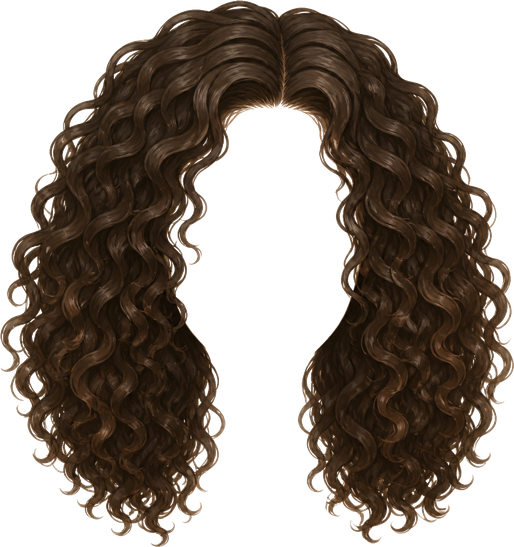
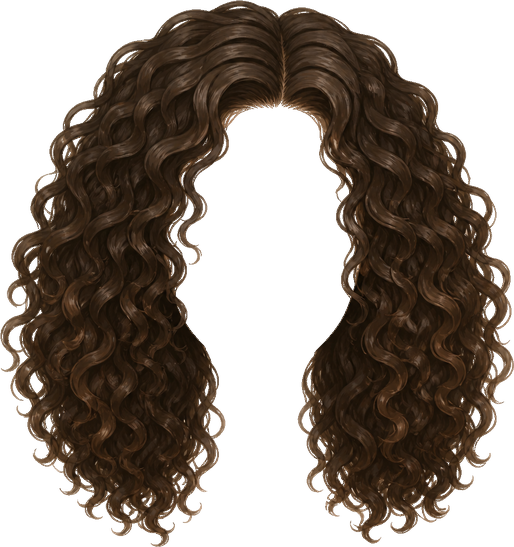
Starter closet: fix the Cloudflare request; better hair and top fit (#20)
* Starter closet: find the Cloudflare account ID in a pasted dashboard address; clear message when it isn't one; error text wraps in the review grid

Claude-Session: https://claude.ai/code/session_01EhMbmzT8P6M24BQw5kWDun

* Starter closet: send Cloudflare only a prompt and steps (its FLUX.1 schnell refuses a seed)

Claude-Session: https://claude.ai/code/session_01EhMbmzT8P6M24BQw5kWDun

* Fit: hair filled in behind the face (no background between face and hair), clean hair edges; sleeveless tops sized by their armpits; tops cover the body down to the hem without flaring; stricter dress-form neck check

Claude-Session: https://claude.ai/code/session_01EhMbmzT8P6M24BQw5kWDun

---------

diff --git a/public/js/garment.js b/public/js/garment.js
@@ -25,7 +25,7 @@ const spanAt = (body, y) => { const o = body.outlineAt(Math.round(y)); return o 
 /** A strapless piece (corset, tube top, bustier): sits on the bust and waist, not on the shoulders. */
 export const isStrapless = (name = '') => /corset|tube|bustier|strapless|bandeau/i.test(name);
 
-export function plan(type, marks, cut, pack, body, { strapless = false } = {}) {
+export function plan(type, marks, cut, pack, body, { strapless = false, sleeveless = false } = {}) {
   const g = groupOf(type); if (!g) return null;
   const P = pack.points, arms = pack.arms, cx = body.cx, ease = easeOf(type);
   const pt = (n) => (marks[n] ? [marks[n][0] * cut.width, marks[n][1] * cut.height] : null);
@@ -94,9 +94,14 @@ export function plan(type, marks, cut, pack, body, { strapless = false } = {}) {
 
   // tops, outerwear and dresses
   const shL = pt('shoulderL'), shR = pt('shoulderR'); if (!shL || !shR) return null;
-  const bodySh = P.shoulderR[0] - P.shoulderL[0], k = type === 'outerwear' ? 1.08 : 1.02, s = bodySh / Math.max(8, dist(shL, shR)), gShY = (shL[1] + shR[1]) / 2;
+  const apL0 = pt('armpitL'), apR0 = pt('armpitR'), gcx0 = (shL[0] + shR[0]) / 2;
+  const bodySh = P.shoulderR[0] - P.shoulderL[0], k = type === 'outerwear' ? 1.08 : 1.02, gShY = (shL[1] + shR[1]) / 2;
+  // a sleeveless top's "shoulders" are its straps: it's sized by its armpits and keeps its own strap spacing (not stretched to her shoulder tips)
+  const strap = sleeveless && g === 'top' && apL0 && apR0;
+  const s = strap ? ((P.armpitR[0] - P.armpitL[0]) * 1.04) / Math.max(8, dist(apL0, apR0)) : bodySh / Math.max(8, dist(shL, shR));
   const SHY = (P.shoulderL[1] + P.shoulderR[1]) / 2 - 14, halfSh = bodySh / 2 * k;
-  add('shoulderL', shL, [cx - halfSh, SHY]); add('shoulderR', shR, [cx + halfSh, SHY]);
+  if (strap) { add('shoulderL', shL, [cx - Math.min(halfSh, (gcx0 - shL[0]) * s), SHY + 4]); add('shoulderR', shR, [cx + Math.min(halfSh, (shR[0] - gcx0) * s), SHY + 4]); }
+  else { add('shoulderL', shL, [cx - halfSh, SHY]); add('shoulderR', shR, [cx + halfSh, SHY]); }
   const nk = pt('neck'); if (nk) add('neck', nk, [cx, Math.max(SHY - 8, SHY + (nk[1] - gShY) * s)]);
   const apL = pt('armpitL'), apR = pt('armpitR'), ak = type === 'outerwear' ? 1.12 : 1.04;
   // a loose piece keeps its own width (scaled); a fitted one sits on the body with a little ease
@@ -117,7 +122,7 @@ export function plan(type, marks, cut, pack, body, { strapless = false } = {}) {
     const wl = pt('waistL'), wr = pt('waistR');
     if (wl && wr) { const e = spanAt(body, waistY), c = 1 + ease * 0.6; add('waistL', wl, [cx - (cx - e.l) * c, waistY]); add('waistR', wr, [cx + (e.r - cx) * c, waistY]); }
     widen = { y0: Math.round(waistY), y1: Math.round(hemY) + 4, hang: { y: hipY, y1: hemY + 4 } };
-  } else widen = { y0: Math.round((P.bustL[1] + P.bustR[1]) / 2 - 40), y1: Math.round(waistY), top: true }; // a top hugs the body down to the waist; below it, it keeps its own width
+  } else widen = { y0: Math.round((P.armpitL[1] + P.armpitR[1]) / 2 - 40), y1: Math.round(hemY) + 40, top: true }; // a top is made at least as wide as her (no skin at its sides), with only a little ease: it never flares like a skirt
   return { ctl, widen, s };
 }
 
@@ -156,8 +161,8 @@ function sleeveControls(q, pl, pack, body, cut) {
  * The garment cutout fitted to the body: a canvas the size of the base picture, ready to be drawn at 0,0.
  * `marks` may be null (then they are suggested). Resolves to { canvas, ctl } or null when the piece has no landmarks to warp.
  */
-export function fitGarment(cut, type, marks, pack, body, { ease = easeOf(type), rows = true, debug = null, strapless = false } = {}) {
-  const pl = plan(type, marks, cut, pack, body, { strapless }); if (!pl || pl.ctl.length < 3) return null;
+export function fitGarment(cut, type, marks, pack, body, { ease = easeOf(type), rows = true, debug = null, strapless = false, sleeveless = false } = {}) {
+  const pl = plan(type, marks, cut, pack, body, { strapless, sleeveless }); if (!pl || pl.ctl.length < 3) return null;
   const [W, H] = pack.size;
   /** Thin-plate-spline warp of `img` through the given controls; a global affine fit pins the far corners so the margins stay sane. */
   const warpWith = (img, ctl) => {
@@ -197,8 +202,16 @@ export function fitGarment(cut, type, marks, pack, body, { ease = easeOf(type), 
     if (pl.seam) { out = widenRows(out, outline, { y0: w.y0, y1: Math.floor(body.crotchY) - 1, ease, debug }); out = widenRows(out, (y) => body.runs(y), { y0: Math.ceil(body.crotchY), y1, ease, debug }); }
     else if (w.top) { // above the armpits base.png's outline includes the arms, so the bust points give the width there
       const P = pack.points, apY = (P.armpitL[1] + P.armpitR[1]) / 2;
-      const torso = (y) => (y < apY + 12 ? [[P.bustL[0], P.bustR[0]]] : outline(y));
-      out = widenRows(out, torso, { y0: w.y0, y1: w.y1, ease: 0.04, debug });
+      // her width on a row, from the bust, waist and hip points (base.png's own outline still includes the arms down to the waist), never wider
+      // than the outline itself; one span across both legs below the crotch (a top covers them as one piece)
+      const lerpW = (y, a, b) => { const t = Math.max(0, Math.min(1, (y - a[0]) / (b[0] - a[0]))); return a[1] + (b[1] - a[1]) * t; };
+      const stops = [[(P.bustL[1] + P.bustR[1]) / 2, (P.bustR[0] - P.bustL[0]) / 2], [(P.waistL[1] + P.waistR[1]) / 2, (P.waistR[0] - P.waistL[0]) / 2], [(P.hipL[1] + P.hipR[1]) / 2, (P.hipR[0] - P.hipL[0]) / 2]];
+      const torso = (y) => {
+        const half = y <= stops[0][0] ? stops[0][1] : y <= stops[1][0] ? lerpW(y, stops[0], stops[1]) : lerpW(y, stops[1], stops[2]);
+        const o = body.outlineAt(Math.round(y)), l = o && y >= apY + 12 ? Math.max(o.l, body.cx - half) : body.cx - half, r = o && y >= apY + 12 ? Math.min(o.r, body.cx + half) : body.cx + half;
+        return [[l, r]];
+      };
+      out = widenRows(out, torso, { y0: w.y0, y1: w.y1, ease: 0.03, maxStretch: 1.8, debug }); // (a knit top stretches over the hips)
     } else out = widenRows(out, outline, { y0: w.y0, y1, ease, hang: w.hang, debug });
   }
   if (sleeves.length) { // each sleeve along its arm: shoulder -> elbow -> wrist, at least as wide as the arm so no skin shows past a long sleeve

diff --git a/public/js/doll.js b/public/js/doll.js
@@ -28,7 +28,7 @@ export function hairOf(pack, style, color, overrides = {}) {
   const h = pack?.hair, st = h?.styles.find((s) => s.id === style);
   if (!st || st.id === 'none' || !st.size) return null;
   const v = pack.version ? `?v=${pack.version}` : '';
-  return { id: st.id, href: `${pack.base}hair/${st.id}.png${v}`, size: st.size, marks: { ...st.marks, ...(overrides[st.id] || {}) }, m: h.colors.find((c) => c.id === color)?.m || null, tone: st.tone || '#2a1c12' };
+  return { id: st.id, href: `${pack.base}hair/${st.id}.png${v}`, fill: st.fill ? `${pack.base}hair/${st.id}-fill.png${v}` : '', size: st.size, marks: { ...st.marks, ...(overrides[st.id] || {}) }, m: h.colors.find((c) => c.id === color)?.m || null, tone: st.tone || '#2a1c12' };
 }
 /** Where a hairstyle goes: scaled so its temples span her temples, placed so its hairline sits on hers, and stretched up or down (a little)
  *  so its crown sits on her crown. Returns [sx, sy, tx, ty] for matrix(sx 0 0 sy tx ty). */
@@ -149,11 +149,10 @@ export function dollSVG({ pack, items, urls, hair = null, meta = null, fits = nu
       <filter id="hairfx-${n}" x="-10%" y="-10%" width="120%" height="125%" color-interpolation-filters="sRGB">${hair.m ? `<feColorMatrix type="matrix" values="${hair.m.join(' ')} 0 0 0 1 0" result="c"/>` : '<feOffset dx="0" dy="0" result="c"/>'}
         <feGaussianBlur in="SourceAlpha" stdDeviation="3"/><feOffset dy="3" result="b"/><feFlood flood-color="#1a0d06" flood-opacity=".35"/><feComposite in2="b" operator="in" result="sh"/>
         <feMerge><feMergeNode in="sh"/><feMergeNode in="c"/></feMerge></filter>
-      <filter id="hairgap-${n}" x="-30%" y="-30%" width="160%" height="160%" color-interpolation-filters="sRGB"><feGaussianBlur stdDeviation="7"/>${hair.m ? `<feColorMatrix type="matrix" values="${hair.m.join(' ')} 0 0 0 1 0"/>` : ''}</filter>`;
-    const st = pack.hair.styles.find((s) => s.id === hair.id), full = st?.backfill !== 'top';
-    // the back of her head, in the hair's colour: fills any gap between the skull and the hair's crown, and (for hair worn down) what shows beside the face
-    const fill = full ? { cy: (P.crown[1] + ny + 60) / 2 + 10, rx: tw * 1.22, ry: (ny + 60 - P.crown[1]) / 2 - 6 } : { cy: P.crown[1] + (P.hairline[1] - P.crown[1]) * 0.75, rx: tw * 0.95, ry: (P.hairline[1] - P.crown[1]) * 0.7 };
-    hairBack = `<g class="hairback"><ellipse cx="${P.crown[0]}" cy="${num(fill.cy)}" rx="${num(fill.rx)}" ry="${num(fill.ry)}" fill="${hair.tone}" opacity=".92" filter="url(#hairgap-${n})"/>
+ <filter id="hairgap-${n}" x="-10%" y="-10%" width="120%" height="120%" color-interpolation-filters="sRGB"><feGaussianBlur in="SourceAlpha" stdDeviation="3" result="b"/><feFlood flood-color="${hair.tone}"/><feComposite in2="b" operator="in"/>${hair.m ? `<feColorMatrix type="matrix" values="${hair.m.join(' ')} 0 0 0 1 0"/>` : ''}</filter>`;
+    // the back of her head, in the hair's colour: the style with its face opening filled in down to her jaw, so nothing shows between face and hair
+    const fillPic = hair.fill ? `<image href="${hair.fill}" width="${hair.size[0]}" height="${hair.size[1]}" transform="matrix(${num(sx)} 0 0 ${num(sy)} ${num(tx)} ${num(ty)})" filter="url(#hairgap-${n})"/>` : '';
+    hairBack = `<g class="hairback">${fillPic}
       <g mask="url(#hairback-${n})"><g filter="url(#hairfx-${n})">${img}</g></g></g>`;
     hairFront = `<g class="hairfront" mask="url(#hairfront-${n})"><g filter="url(#hairfx-${n})">${img}</g></g>`;
   }

diff --git a/lib/ai.js b/lib/ai.js
@@ -220,11 +220,14 @@ export const nextResetUTC = (now = Date.now()) => { const d = new Date(now); ret
 /** True when a Cloudflare error means the daily free neurons are used up (as opposed to a real failure). */
 export const isDailyLimit = (status, text) => status === 429 || /neuron|daily free allocation|4006/i.test(text || '');
 
+/** The Cloudflare account ID: the 32-character hex ID, also when a dashboard address (dash.cloudflare.com/<id>/...) or stray spaces were pasted. */
+export const cfAccount = (v) => String(v || '').match(/\b[0-9a-f]{32}\b/i)?.[0] || '';
+
 async function cfImage(env, it, seed) {
   const base = (env.CF_API_BASE || 'https://api.cloudflare.com').replace(/\/$/, '');
-  const r = await fetch(`${base}/client/v4/accounts/${encodeURIComponent(env.CF_ACCOUNT_ID)}/ai/run/${CF_MODEL}`, {
-    method: 'POST', headers: { authorization: `Bearer ${env.CF_API_TOKEN}`, 'content-type': 'application/json' },
-    body: JSON.stringify({ prompt: promptFor(it), steps: CF_STEPS, ...(Number.isInteger(seed) && { seed }) }),
+  const r = await fetch(`${base}/client/v4/accounts/${cfAccount(env.CF_ACCOUNT_ID)}/ai/run/${CF_MODEL}`, {
+    method: 'POST', headers: { authorization: `Bearer ${String(env.CF_API_TOKEN).trim()}`, 'content-type': 'application/json' },
+    body: JSON.stringify({ prompt: promptFor(it), steps: CF_STEPS }), // (FLUX.1 schnell on Cloudflare takes only a prompt and steps: no seed, so every call is a fresh picture)
   });
   const t = await r.text(); let j = null; try { j = JSON.parse(t); } catch { /* not JSON */ }
   if (!r.ok || !j?.success) {
@@ -251,6 +254,7 @@ export const handleStarter = wrap(async (request, env) => {
   if (!it) return json({ error: 'Not a starter piece.' }, 400);
   const cf = !!(env.CF_ACCOUNT_ID && env.CF_API_TOKEN), useFal = engine === 'fal'; // fal (paid) only when asked for by name, never as a silent fallback
   if (!useFal && !cf) return json({ error: 'The starter closet needs CF_ACCOUNT_ID and CF_API_TOKEN (Cloudflare Workers AI) set in Vercel, then a redeploy.' }, 503);
+  if (!useFal && !cfAccount(env.CF_ACCOUNT_ID)) return json({ error: 'CF_ACCOUNT_ID in Vercel isn’t a Cloudflare account ID: it should be the 32 letters and numbers shown as “Account ID” on the Cloudflare dashboard.' }, 503);
   if (useFal && !env.FAL_KEY) return json({ error: 'fal needs FAL_KEY set on the server.' }, 503);
   if (!useFal) { const used = await usedToday(env); if (used !== null && used + NEURONS_EACH > BUDGET) return json({ error: 'Today’s free Cloudflare allowance is used up.', limit: true, used, resetAt: nextResetUTC() }, 429); }
   try {

diff --git a/public/js/starter.js b/public/js/starter.js
@@ -151,7 +151,7 @@ export function checkPicture(img, it) {
     const bw = x1 - x0 + 1, cx = (x0 + x1) / 2, thin = (yy, f) => { const r = runs(fg, w, yy); return r.length === 1 && r[0][1] - r[0][0] + 1 < bw * f && Math.abs((r[0][0] + r[0][1]) / 2 - cx) < bw * 0.1; };
     const band = (a, b, f) => { let t = 0, all = 0; for (let yy = a; yy <= b; yy++) { all++; if (thin(yy, f)) t++; } return all && t / all > 0.7; };
     const bh = y1 - y0 + 1;
-    if (band(y0, y0 + Math.round(bh * 0.07), 0.15)) reasons.push('a neck stand above the item (a dress form?)');
+    if (!/halter|turtleneck|one-shoulder/i.test(`${it.name} ${it.detail}`) && band(y0, y0 + Math.round(bh * 0.07), 0.25)) reasons.push('a neck stand above the item (a dress form?)'); // (a halter's neck strap or a turtleneck's collar is the piece itself)
     // a stand's pole is very thin; a bodysuit's crotch, a skirt's hem or a dress's slit are not
     if (band(y1 - Math.round(bh * 0.1), y1, 0.06) && it.type !== 'bodysuits') reasons.push('a pole under the item (a dress form stand?)');
   }
@@ -217,7 +217,7 @@ async function finish(cut, check) {
 export const sleevesOf = (it) => (/sleeveless|strapless|tube|cami|tank|halter|corset|vest|one-shoulder|thin straps/i.test(`${it.name} ${it.detail}`) ? false
   : /sleeve|sweater|turtleneck|button-down|blouse|tee|t-shirt|cardigan|blazer|coat|jacket|duster|puffer|shirt/i.test(`${it.name} ${it.detail}`) ? true : undefined);
 /** Starter pieces checked by an older version are checked again (the check keeps getting stricter). */
-export const CHECK_VERSION = 3;
+export const CHECK_VERSION = 4;
 export const toItem = (it, done, original) => ({
   checkVersion: CHECK_VERSION, ...(sleevesOf(it) !== undefined && ['tops', 'tanks', 'bodysuits', 'outerwear', 'dresses'].includes(it.type) && { sleeves: sleevesOf(it) }),
   id: uid(), starterId: it.id, source: 'starter', ready: !!done.ready, review: done.ready ? undefined : done.why, ...(it.acc && { acc: it.acc }), name: it.name, type: it.type, occasions: [...it.occasions], season: it.season, brand: '',

diff --git a/public/js/warp.js b/public/js/warp.js
@@ -96,7 +96,7 @@ const dilate = (a, k) => a.map((_, i) => { let m = null; for (let j = Math.max(0
  * y >= hang.y the garment never gets narrower than the widest point above it, so a skirt falls straight down from the hip instead of following the legs.
  *   body: (y) => [[x0, x1], ...] body runs for that row.  Returns a new canvas.
  */
-export function widenRows(src, body, { y0, y1, ease = 0.05, hang = null, debug = null } = {}) {
+export function widenRows(src, body, { y0, y1, ease = 0.05, hang = null, debug = null, maxStretch = 1.45 } = {}) {
   const w = src.width, h = src.height, data = src.getContext('2d', { willReadFrequently: true }).getImageData(0, 0, w, h).data;
   const out = document.createElement('canvas'); out.width = w; out.height = h;
   const g = out.getContext('2d'); g.drawImage(src, 0, 0);
@@ -135,7 +135,7 @@ export function widenRows(src, body, { y0, y1, ease = 0.05, hang = null, debug =
     }
     // the garment's own edges are ragged, so the stretch is smoothed over rows: scale about the run's centre, plus a shift
     const wid = col.map((c) => (c ? c.g[1] - c.g[0] : 0)), med = (i) => { const a = []; for (let j = Math.max(0, i - 14); j < i; j++) if (wid[j]) a.push(wid[j]); a.sort((p, q) => p - q); return a.length ? a[a.length >> 1] : 0; };
-    const ok = col.map((c, i) => (c && tr[i] - tl[i] <= 1.45 * (c.g[1] - c.g[0]) && wid[i] >= 0.8 * (med(i) || wid[i]) ? 1 : 0));
+    const ok = col.map((c, i) => (c && tr[i] - tl[i] <= maxStretch * (c.g[1] - c.g[0]) && wid[i] >= 0.8 * (med(i) || wid[i]) ? 1 : 0));
     const ratio = boxBlur(col.map((c, i) => (ok[i] ? (tr[i] - tl[i]) / (c.g[1] - c.g[0]) : null)), R);
     const shift = boxBlur(col.map((c, i) => (ok[i] ? (tl[i] + tr[i]) / 2 - (c.g[0] + c.g[1]) / 2 : null)), R);
     const capL = boxBlur(dilate(col.map((c, i) => (c ? Math.max(0, c.g[0] - tl[i]) : null)), R), R), capR = boxBlur(dilate(col.map((c, i) => (c ? Math.max(0, tr[i] - c.g[1]) : null)), R), R);

diff --git a/public/js/editor.js b/public/js/editor.js
@@ -292,7 +292,7 @@ export function openCutEditor(o) {
         clearTimeout(ftimer); ftimer = setTimeout(() => {
           if (!pack || !body || !baseImg) return; const my = ++ftoken, msg = root.querySelector('#fitmsg');
           try {
-            const res = fitGarment(cut, S.type, S.marks, pack, body, { strapless: isStrapless(o.name) }); if (my !== ftoken) return;
+            const res = fitGarment(cut, S.type, S.marks, pack, body, { strapless: isStrapless(o.name), sleeveless: (S.sleeves ?? sleevesFromName(S.type, o.name)) === false }); if (my !== ftoken) return;
             pg.clearRect(0, 0, prev.width, prev.height); pg.fillStyle = '#f6e9ee'; pg.fillRect(0, 0, prev.width, prev.height); pg.drawImage(baseImg, 0, 0, prev.width, prev.height);
             if (res) { pg.drawImage(res.canvas, 0, 0, prev.width, prev.height); msg.textContent = ''; } else msg.textContent = 'Some landmarks are missing, so it can’t be fitted yet.';
           } catch { msg.textContent = 'Couldn’t fit it with these landmarks.'; }

diff --git a/public/js/fitting.js b/public/js/fitting.js
@@ -30,7 +30,8 @@ export async function fitItem(item, pack) {
   if (!groupOf(item.type) || !item.cutout) return null;
   const [body, cut] = await Promise.all([bodyOf(pack), cutoutCanvas(item.cutout)]);
   const marks = item.marks || suggestFor(item.type, cut, { sleeves: item.sleeves ?? sleevesFromName(item.type, item.name) });
-  const res = fitGarment(cut, item.type, marks, pack, body, { strapless: isStrapless(item.name) }); if (!res) return null;
+  const sleeveless = (item.sleeves ?? sleevesFromName(item.type, item.name)) === false;
+  const res = fitGarment(cut, item.type, marks, pack, body, { strapless: isStrapless(item.name), sleeveless }); if (!res) return null;
   const blob = await new Promise((r) => res.canvas.toBlob(r, 'image/png'));
   return { url: URL.createObjectURL(blob), blob, marks };
 }

diff --git a/public/styles.css b/public/styles.css
@@ -780,3 +780,4 @@ label.check { display: flex; gap: 8px; align-items: center; min-height: 44px; }
 .hfprev { background: #e9d3c6 url(/assets/closet/mirror.jpg) center 20% / cover; border-radius: 14px; overflow: hidden; }
 .hfprev svg { width: 100%; height: auto; display: block; }
 @media (max-width: 520px) { .hairfit { grid-template-columns: 1fr 1fr; } }
+.startergrid > * { min-width: 0; } .startertile em, .startertile small { overflow-wrap: anywhere; word-break: break-word; } .startertile em { display: block; max-height: 4.6em; overflow: hidden; }

diff --git a/README.md b/README.md
@@ -119,7 +119,7 @@ Backup/restore, accounts + sync, a serverless generative virtual-try-on endpoint
 ## Starter closet
 
 A set of 140 generated product photos (7 categories × 20) so the app is useful before your own clothes are in. The list, tags and the
-shared prompt (fixed style suffix, a stable seed per category) are in `public/starter/items.js`; add a row there to add a piece.
+shared prompt (fixed style suffix; a stable seed per category, used by fal; Cloudflare's FLUX.1 schnell takes no seed) are in `public/starter/items.js`; add a row there to add a piece.
 
 - **Engine:** Cloudflare Workers AI, `@cf/black-forest-labs/flux-1-schnell` at 4 steps, through `/api/starter`. Set `CF_ACCOUNT_ID`
   and `CF_API_TOKEN` (a token with Workers AI permission) in Vercel. fal (`FAL_KEY`) is only an optional fallback.
